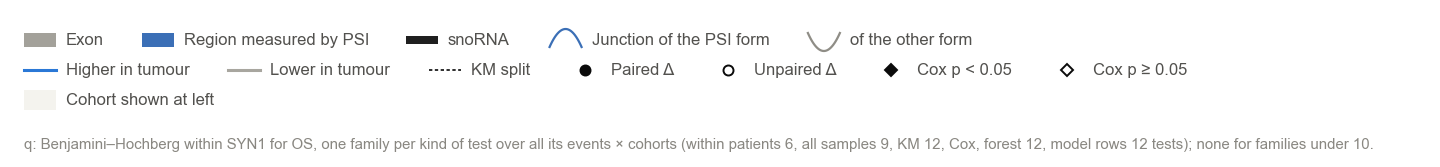
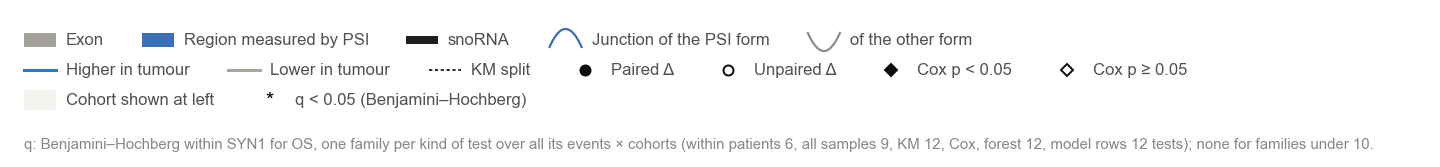
Docs: two tables first; the q mark
README and agent guide lead with the two-table input; methods, reading guide and
changelog describe the q mark. Figures regenerated (the KM header and legend now
show it).

Changed region(s): [[0.1875, 0.5389, 0.375, 0.6587]]

diff --git a/README.md b/README.md
@@ -84,8 +84,27 @@ sa.cox_model_figure(ds, "SYN1:SE:1", "COH1", "OS", model=clinical, out_dir="figu
 
 ## Input tables
 
-Put the tables in one folder, named `<table>.csv` (or `.tsv`, `.txt`, `.parquet`), or pass DataFrames. There is one
-row per record, and IDs are read as text.
+Two tables are enough, plus an optional expression table. Put them in one folder, named `<table>.csv` (or `.tsv`,
+`.txt`, `.parquet`), or pass DataFrames. IDs are read as text.
+
+| Table | Columns |
+|---|---|
+| `samples` | One row per sample: `sample_id`, `patient_id`, `cohort`, `group`; the survival columns (`OS.time` + `OS`, `DSS.time` + `DSS`, …); any clinical columns (age, sex, stage, …); optional `role` (case/reference), `survival_cohort` (true/false) and `pair_id` |
+| `psi` | One row per event: the event columns (`event_id`, `gene`; to draw it also `chrom`, `strand`, `event_type`, `constant`, `variable`; optional `label`, `gene_id`, `expression_gene`, `psi_junctions`, `other_junctions`), then one PSI column per sample |
+| `expression` (optional) | long: `gene`, `sample_id`, `value`; or wide: `gene` + one column per sample |
+
+How they are read:
+- **Survival and clinical values** come from each patient's survival sample (one tumour per patient). They may be
+  repeated on the patient's other rows or left empty there.
+- **Pairs.** Samples sharing a `pair_id` within a cohort form a pair. Without `pair_id`, a patient's one tumour and
+  one normal sample are paired.
+- **This is the default form.** `splice-assay example` writes its data this way, and `import-rmats` and
+  `import-hitindex` write one `psi.csv` holding the event columns.
+
+### Separate tables (also accepted)
+
+Each part can instead have its own table. A separate table takes precedence over the same columns in `samples` or
+`psi`, and `validate` says where each table came from. `splice-assay example DIR --separate` writes this form.
 
 | Table | Required columns | Optional columns |
 |---|---|---|
@@ -96,22 +115,6 @@ row per record, and IDs are read as text.
 | `pairs` | `cohort`, `patient_id`, `case_sample`, `reference_sample` | |
 | `expression` | long: `gene`, `sample_id`, `value`; or wide: `gene` + one column per sample | |
 | `clinical` | `patient_id` | any covariates: age, sex, stage, … |
-
-### Two tables are enough
-
-The patient-level tables can be columns of `samples`, and the event table can be columns of `psi`:
-
-| Table | Columns |
-|---|---|
-| `samples` | `sample_id`, `patient_id`, `cohort`, `group`, plus survival columns (`OS.time`, `OS`, `DSS.time`, `DSS`, …), plus any clinical columns (age, sex, stage, …), plus an optional `pair_id` |
-| `psi` | the event columns (`event_id`, `gene`, `chrom`, `strand`, `event_type`, `constant`, `variable`, …) and one PSI column per sample |
-
-How the combined tables are read:
-- **Survival and clinical values** come from each patient's survival sample (one tumour per patient). They may be
-  repeated on the patient's normal rows or left empty there.
-- **Pairs.** Samples sharing a `pair_id` within a cohort form a pair. Without `pair_id`, a patient's one tumour and
-  one normal sample are paired.
-- **Separate tables** still work and take precedence. `validate` says where each table came from.
 
 ### Subsets (e.g. one subtype)
 
@@ -204,10 +207,10 @@ The junctions of both forms follow from these coordinates. For any other event t
 splice-assay import-rmats rmats_out/ --b1 b1.txt --b2 b2.txt --counting JCEC --out my_data/
 ```
 
-This writes `events.csv` (with geometry) and `psi.csv` (from `IncLevel1`/`IncLevel2`, named after the BAM files).
-With `--one-table` it writes one `psi.csv` holding the event columns and the PSI values. Add `samples.csv` to the
-same folder; survival and clinical columns can go in it, or in their own tables. For MXE events, PSI is taken to measure the transcript-upstream
-exon; see `splice_assay.rmats` and check one known event in your data.
+This writes one `psi.csv`: the event columns (with geometry), then the PSI values from `IncLevel1`/`IncLevel2`, one
+column per sample, named after the BAM files. `--separate` writes `events.csv` and a long `psi.csv` instead. Add
+`samples.csv`, with the survival and clinical columns, to the same folder. For MXE events, PSI is taken to measure the
+transcript-upstream exon; see `splice_assay.rmats` and check one known event in your data.
 
 ### From HITindex
 
@@ -223,7 +226,8 @@ per-sample outputs looks like this; `splice-assay example` writes three in `demo
 - **`--gene`** keeps the listed genes (symbols or Ensembl IDs). The matrices are streamed, so a large file costs
   little memory.
 - **`--append`** adds the events to the tables already in the folder (for example after `import-rmats`), in the
-  layout it finds there; an event ID already present is an error.
+  layout it finds there; an event ID already present is an error. Without it, the events go into a new `psi.csv`
+  with their event columns (`--separate`: `events.csv` and a long `psi.csv`).
 - **Values.** AFE and ALE values are PSI: the exon's use among the gene's first (last) exons. The HIT index (−1 to 1)
   is not PSI and has its own rules: no 0/1 check, and a hit needs |Δ| > 0.20 (`hit_min_abs_delta`). Pages say "HIT
   index" where they would say PSI. See [docs/methods.md](docs/methods.md#event-types-and-their-values).
@@ -296,6 +300,7 @@ annotation, and checks against SpliceImpactR.
 | Model notes | under 10 events per term; PSI IQR under 0.05 | settings `cox_events_per_term`, `narrow_psi_below` |
 | KM split | median | `--km-split mean` or `--km-split 0.5`; `--km-split-expression` for expression |
 | HIT-index events | left out of `analyse` and `probe` (one per exon, a far larger set) | `--include-hit`, or `--event` for one |
+| q mark | `*` for q < 0.05 (filled markers stay p < 0.05) | settings `q_mark_below` |
 | Cohorts per page | 6 (more are split over pages) | settings `cohorts_per_page` |
 | GTF | `$SPLICE_ASSAY_GTF` | `--gtf` |
 | Protein cache | `$SPLICE_ASSAY_PROTEINS` (none: no protein band) | `--proteins`, `--no-proteins` |
@@ -363,7 +368,9 @@ Each splicing p value has a Benjamini–Hochberg q within its gene, with each ki
 - the Cox PSI term (per endpoint and model).
 
 The pages print q beside p and name the family in a footnote. Families of fewer than 10 tests get no q. HIT-index
-events, when included, form families of their own. Hit rules, filled markers and the probe ranking stay on p. Details:
+events, when included, form families of their own. A `*` marks each q below 0.05: after the q itself, after the
+forest's CI and after the tested term's p in the model rows, and in the probe overview. It is separate from the
+filled markers, which show p < 0.05. The `q_mark_below` setting changes the threshold (0 = no marks). Hit rules, filled markers and the probe ranking stay on p. Details:
 [docs/methods.md](docs/methods.md#multiple-testing-q-values).
 
 ## Host-gene expression page
@@ -408,7 +415,7 @@ models already adjust PSI for expression.
   - Columns: `events` and `cohorts` (both separated by `;`), `endpoint`, and optionally `stem`.
   - The statistics are computed and the GTF is read only once.
 - **Two events.** Two events of the same gene can share a figure, for example two retained introns.
-- **Smaller GTF.** `splice-assay gtf-subset gencode.gtf.gz --events events.csv --out small.gtf.gz` keeps only the
+- **Smaller GTF.** `splice-assay gtf-subset gencode.gtf.gz --events my_data/psi.csv --out small.gtf.gz` keeps only the
   records near your events.
 
 ## Settings

diff --git a/AGENT_GUIDE.md b/AGENT_GUIDE.md
@@ -21,22 +21,16 @@ Every p value is nominal. The tool ranks and displays evidence; it does not decl
 
 ## Step 1: get the data into shape
 
-Put the tables in one folder: `samples`, `psi`, `events`, `survival`, and optionally `pairs`, `expression` and
-`clinical` (`.csv`, `.tsv` or `.parquet`). The minimum columns:
+Put two tables in one folder (`.csv`, `.tsv` or `.parquet`), plus an optional expression table:
 
 | Table | Columns |
 |---|---|
-| samples | `sample_id`, `patient_id`, `cohort`, `group` |
-| psi | `event_id`, `sample_id`, `psi` (0–1), or wide: `event_id` + one column per sample |
-| events | `event_id`, `gene`; to draw: `chrom`, `strand`, `event_type`, `constant`, `variable` |
-| survival | `patient_id`, `endpoint`, `time`, `event`, or wide `OS.time` + `OS`, … |
+| samples | `sample_id`, `patient_id`, `cohort`, `group`; survival columns `OS.time` + `OS`, …; clinical columns (age, sex and stage are found automatically); optional `pair_id`, `role` |
+| psi | the event columns (`event_id`, `gene`; to draw: `chrom`, `strand`, `event_type`, `constant`, `variable`), then one PSI column (0–1) per sample |
 | expression | `gene`, `sample_id`, `value` (e.g. log2 TPM + 1), or wide |
-| clinical | `patient_id` + anything (age, sex, stage are found automatically) |
 
-- **Two tables are enough:**
-  - `samples` may also carry the survival columns (`OS.time`, `OS`, …), the clinical columns and an optional
-    `pair_id`;
-  - `psi` may carry the event columns beside one PSI column per sample.
+- **This is the default form.** `example`, `import-rmats` and `import-hitindex` write it.
+  - Separate `events`, `survival`, `clinical` and `pairs` tables (and a long `psi`) also work, and take precedence.
   - `validate` reports where each table came from ("survival: from the samples table").
 - **Subsets:** `--keep FILE` keeps only the patients listed (IDs, or barcodes starting with them), with all their
   samples. `--where COLUMN=VALUE[,VALUE]` keeps the patients with one of the values in a clinical or samples
@@ -48,8 +42,8 @@ Put the tables in one folder: `samples`, `psi`, `events`, `survival`, and option
   - Say which is the case either with `--case "Responder" --reference "Non-responder"` or with a `role` column in
     samples (`case` / `reference`).
   - Effects are case minus reference.
-- **rMATS output:** `splice-assay import-rmats` writes `events.csv` and `psi.csv`, or, with `--one-table`, a
-  single `psi.csv` holding both.
+- **rMATS output:** `splice-assay import-rmats` writes one `psi.csv` holding the event columns and the PSI values
+  (`--separate`: `events.csv` and a long `psi.csv`).
 - **HITindex output** (alternative first and last exons, HIT index): `splice-assay import-hitindex afe.csv ale.csv
   hit.csv --gtf GTF --out DATA --append` adds them beside the rMATS events. The GTF supplies the strand, which the
   HITindex IDs lack.
@@ -213,6 +207,8 @@ splice-assay panel DATA --event EVENT_ID [--cohort A --cohort B ...] [--gtf ...]
   1.44 (95% CI 1.11–1.87), p 0.005, Cox with host expression, age, sex and stage, LUAD, OS".
 - **What HR per IQR means.** It is the hazard ratio between a patient at the 75th and one at the 25th percentile of
   PSI in that cohort, other terms fixed. HR > 1 means higher PSI goes with worse survival.
+- **Markers.** Filled markers mean p < 0.05; a `*` means q < 0.05 within the gene's family. Say which one a claim
+  rests on.
 - **Chance.** State how many tests were run and how many p < 0.05 chance predicts. Quote q only with its family:
   e.g. "q 0.03, BH within EHMT2 over the 105 adjusted-model Cox tests for OS".
   - Each kind of test is its own family within the gene: `paired_q`, `unpaired_q`, `km_q`, `cox_q`, `adj_cox_q`.

diff --git a/docs/reading-results.md b/docs/reading-results.md
@@ -64,13 +64,14 @@ three cohorts:
   - p comes from the Mann–Whitney test.
   - The dotted line is the KM split.
 - **Hits and q.** A design is a hit when p < 0.05, |Δ| > 0.10, the Hodges–Lehmann shift agrees in sign, and the result
-  survives dropping PSI values of exactly 0 or 1. A q line appears when the gene has at least 10 such tests.
+  survives dropping PSI values of exactly 0 or 1. A q line appears when the gene has at least 10 such tests, with a
+  `*` when q < 0.05.
 
 **Middle: Kaplan–Meier.** The cohort is split at the median PSI of its survival samples (or the mean, or a value set
 with `--km-split`); PSI at or below the split is the low arm.
 - **Header.**
   - The split: "split at median PSI 0.7705", or "split at PSI 0.5 (set)" for a value you gave.
-  - The log-rank HR (high vs low) and p, then q and the events per arm.
+  - The log-rank HR (high vs low) and p, then q (with `*` when q < 0.05) and the events per arm.
 - **Curves.** 95% bands, with ticks for censored patients. The at-risk table counts patients still followed.
 - **A † after the log-rank p**, with a last line "† non-proportional hazards (p …)": the hazard ratio between the arms
   changes over follow-up, for example when the curves cross. The log-rank test still ran; it averages that change.
@@ -85,6 +86,7 @@ stage).
   - Filled markers have p < 0.05.
   - A † after a row's p: that term failed the proportional-hazards test (p < 0.05), so its HR is an average over
     follow-up.
+  - A `*` after the PSI row's p: its q (shown in the header) is below 0.05.
 
 ### 4. When a cohort cannot be fully tested, and model notes
 
@@ -115,6 +117,7 @@ stage).
   axis), so all cohorts are compared under one model.
   - Filled diamonds have p < 0.05.
   - Arrowheads mark a CI that runs off the axis.
+  - A `*` after a CI: that fit's q is below 0.05. The fill shows p, the `*` shows q.
   - A † after a CI: the PSI term of that fit failed the proportional-hazards test.
 - **Shading** marks the cohorts drawn above. Look for the same direction across cohorts.
 
@@ -122,8 +125,8 @@ stage).
 
 ![Legend and footnote](reading/06_legend_footnote.png)
 
-- **The legend** covers every symbol on the page. When the page carries a †, the legend adds "† non-proportional
-  hazards (p < 0.05)".
+- **The legend** covers every symbol on the page. When the page carries a `*` or a †, the legend adds
+  "* q < 0.05 (Benjamini–Hochberg)" or "† non-proportional hazards (p < 0.05)".
 - **The footnote** names the q families with their sizes (Benjamini–Hochberg within the gene, one family per kind of
   test) and lists any setting changed from the defaults. A page from relaxed gates always says so.
 
@@ -164,7 +167,8 @@ These results are not FDR-adjusted. Read them beside the splicing pages:
 ![Probe overview](reading/08_overview.png)
 
 - **Colour** is the HR per IQR of PSI (of the HIT index for HIT events), from the adjusted model where it was fitted.
-- **A dot** is p < 0.05 (a large dot p < 0.01). A frame marks a tumour–normal hit. Grey cells were not tested.
+- **A dot** is p < 0.05 (a large dot p < 0.01); a `*` replaces it when q < 0.05. A frame marks a tumour–normal hit.
+  Grey cells were not tested.
 - **Rows** follow the ranking.
 
 ### The tables

diff --git a/docs/methods.md b/docs/methods.md
@@ -148,6 +148,9 @@ Every p value for splicing gets a Benjamini–Hochberg q within its gene. Each k
   changes no PSI q value. A page's footnote says which events its families cover.
 - **Where q is shown.** The pages print q under or beside the p values: the tumour–normal titles, the KM header,
   and the Cox model headers. A footnote names the family.
+- **The q mark.** A `*` follows each q below `q_mark_below` (0.05), and the forest's CI and the tested term's p in
+  the model rows carry it too. In the probe overview it replaces the p dot. It is separate from the filled markers,
+  which stay on p.
 - **How the family is built.** `panel` and `panels` analyse all of a gene's events of the page's kind (PSI events,
   or HIT-index events), and `probe` all of the gene's events it probes, so the family is the whole gene; `analyse`
   uses the events it is given.
@@ -244,7 +247,7 @@ the gene's expression page; the probe's `expression_cells.csv`).
 - **Event panel: forest.** One row per cohort where a plotted event had a tested comparison or a Cox fit, plus the
   cohorts shown at left.
   - Left: the paired Δ (filled) and unpaired Δ (open).
-  - Right: the HR per IQR with its 95% CI, filled when Cox p < α.
+  - Right: the HR per IQR with its 95% CI, filled when Cox p < α; a `*` after the CI when its q < 0.05.
   - The model is written under the axis.
   - The HR axis snaps to 1/8…8. It shows every shaded cell's CI in full; other CIs beyond the axis end in an
     arrowhead.

diff --git a/CHANGELOG.md b/CHANGELOG.md
@@ -81,11 +81,14 @@ First version, released under GPL-3.0-only (as SpliceImpactR, whose transcript m
 - **q values within each gene.** Benjamini–Hochberg per kind of test (within patients, all samples, KM, Cox PSI
   term; per endpoint and model) over all of the gene's events × cohorts.
   - Shown beside p on the pages, with a footnote naming the family.
+  - A `*` marks each q below `q_mark_below` (0.05): after the q, the forest's CI, the tested term's p and in the
+    probe overview. The filled markers stay on p.
   - No q for families of fewer than 10 tests (`fdr_min_family`).
   - `panel` and `panels` now analyse every event of the gene so that the family is complete.
-- **Two tables are enough.**
-  - `samples` may carry survival (wide `OS.time` + `OS`, …), clinical columns and `pair_id`.
-  - `psi` may carry the event columns.
+- **Two tables are the default input.**
+  - `samples` carries survival (wide `OS.time` + `OS`, …), clinical columns and an optional `pair_id`.
+  - `psi` carries the event columns beside one PSI column per sample.
+  - `example`, `import-rmats` and `import-hitindex` write this form; `--separate` writes separate tables.
   - Separate tables still work and take precedence.
 - **Host-gene expression page.** With an expression table, the host gene gets one page of its own, drawn once after
   its splicing pages so they do not repeat it (`expression_panel`).
